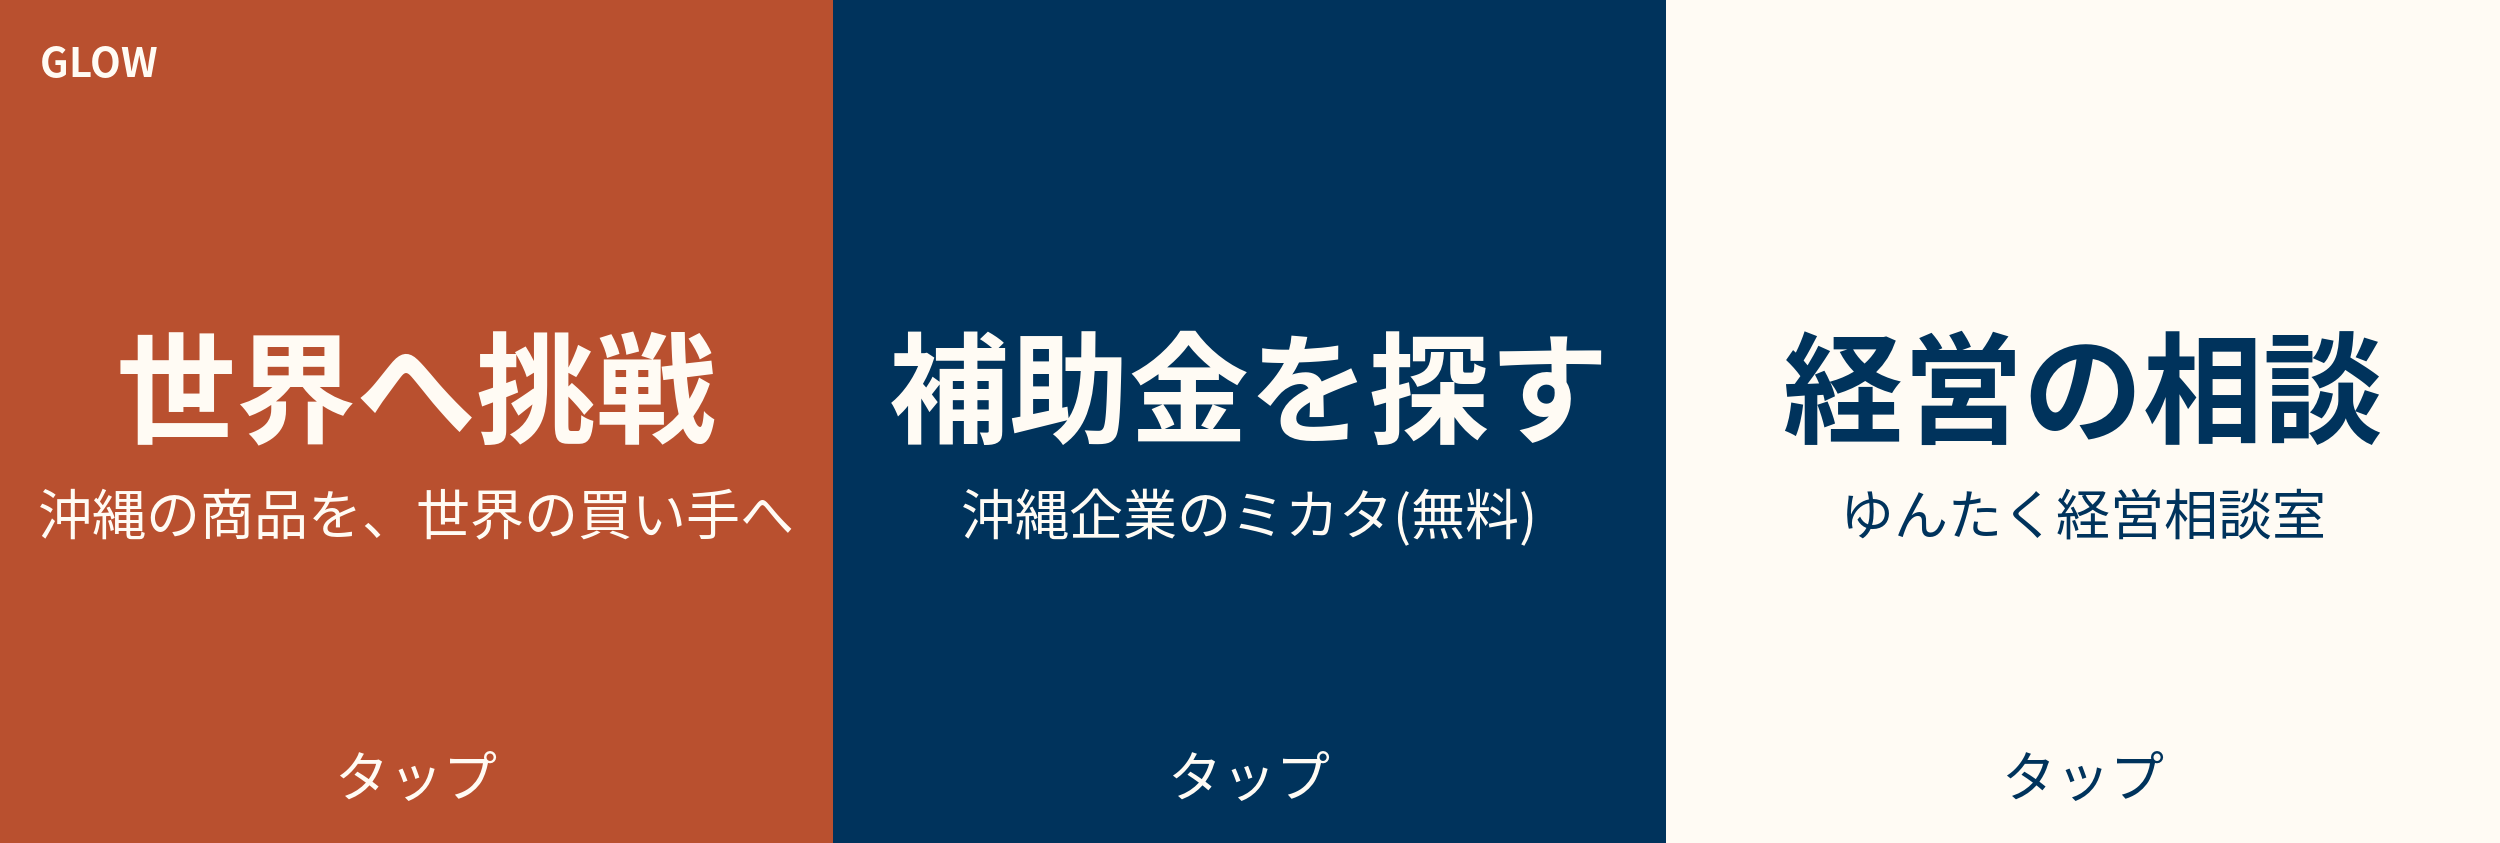
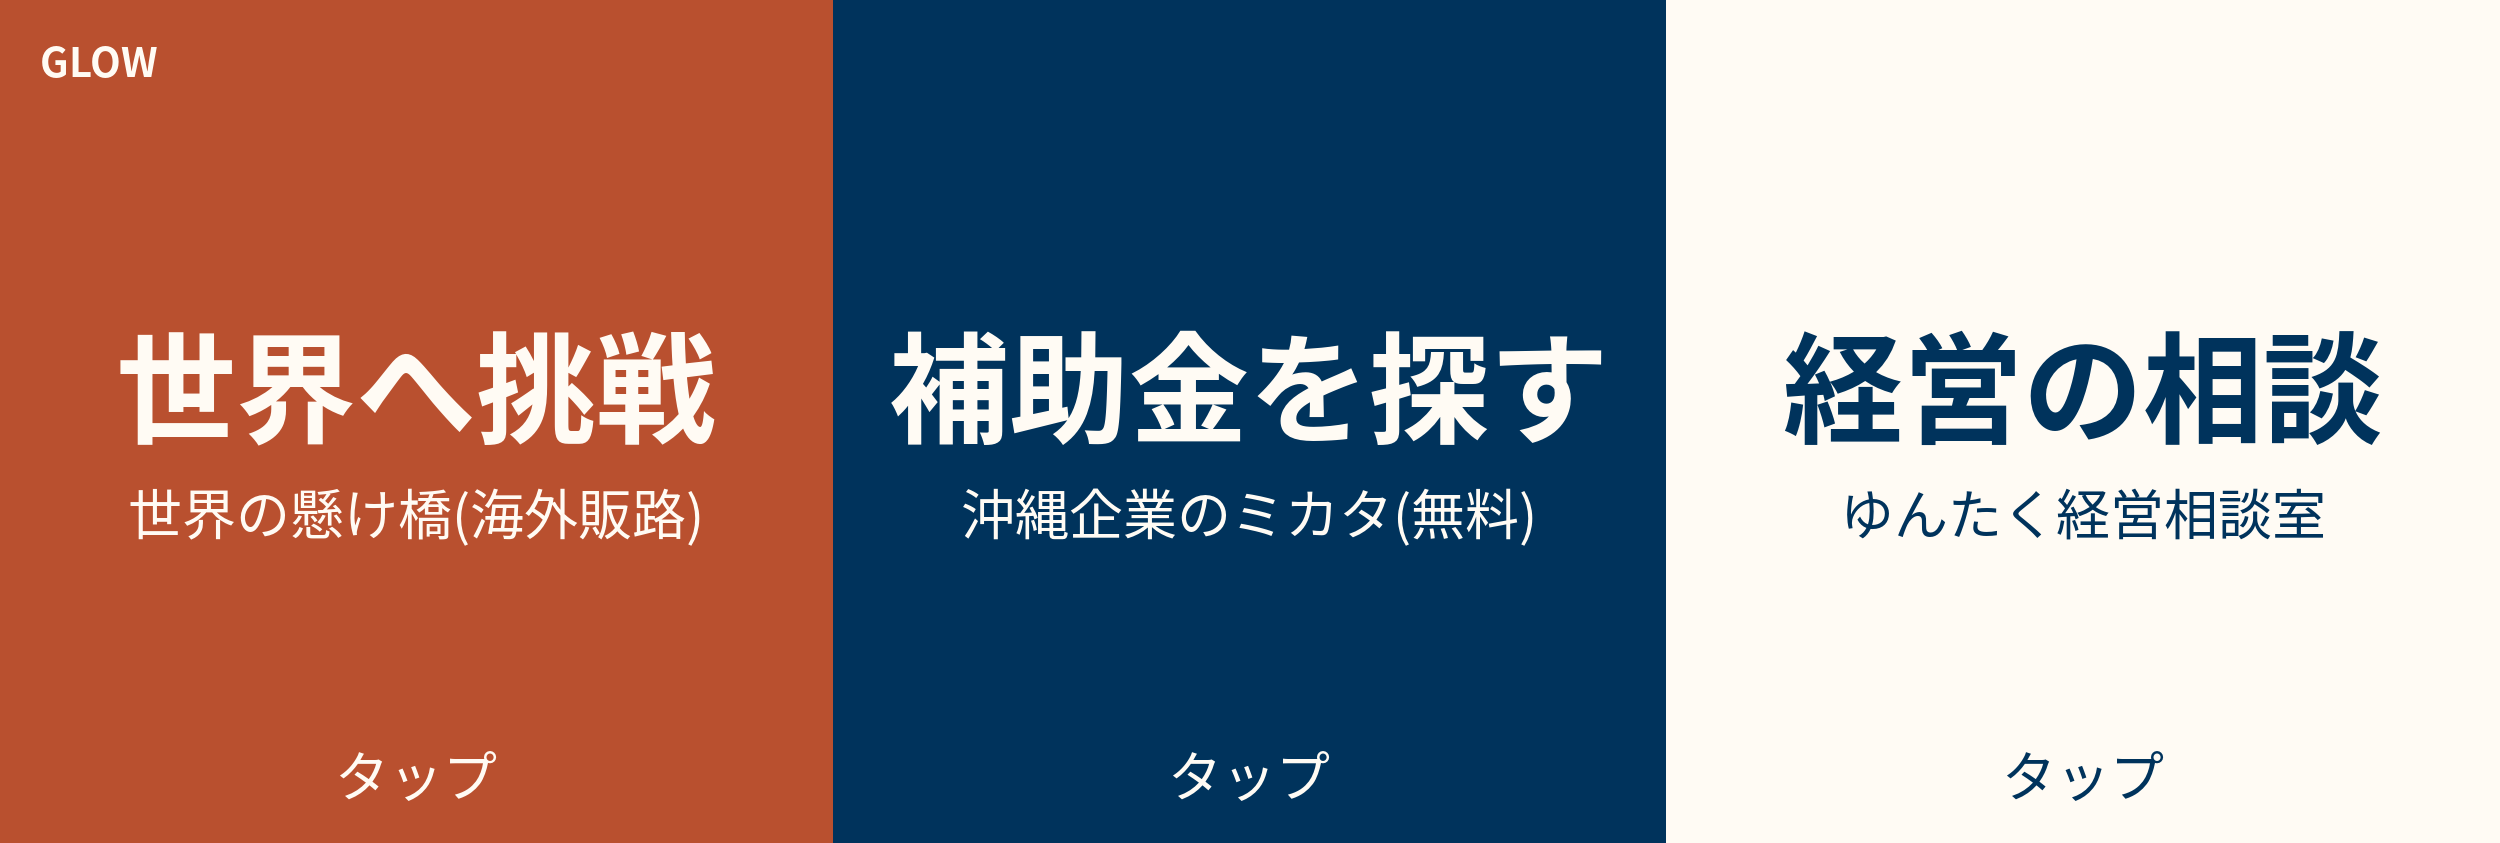
GLOWの3本目の柱「世界の懸け橋」を憲法・全体マップ・LINEメニューに反映
- CLAUDE.md: ❻の説明にサービス名と現在の置き場所(glow-world / glow-okinawa.jp)を追記、事業の軸の表に軸❺を追加
- 全体マップ: ❻の行を更新
- LINEメニュー左ボタンの小見出しを「世界の懸け橋(海外販路)」に

Claude-Session: https://claude.ai/code/session_016UFDXVuYFtAtTGYqmXNcP3

Changed region(s): [[0.0, 0.586, 0.312, 0.6477]]

diff --git a/scripts/glow_line_setup.py b/scripts/glow_line_setup.py
@@ -8,7 +8,7 @@ GLOW LINE公式アカウント(@042wvrgo)のリッチメニューを、画像の
 
 --apply には環境変数 GLOW_LINE_CHANNEL_ACCESS_TOKEN(GitHub Secrets)が必要。
 ボタン(左から):
-  世界へ挑戦  … 世界へ推進LP(GLOW_LP_URL があればそちら)
+  世界へ挑戦  … 世界の懸け橋のLP(GLOW_LP_URL があればそちら)
   補助金を探す … 沖縄企業のミカタ
   経営の相談   … ゆんたく経営相談室
 同じ名前(GLOW-)の古いメニューは登録後に消すので、何度流しても1つだけ残る。
@@ -42,7 +42,7 @@ LP_URL = "https://allgroup-inc.github.io/glow-world/"
 MENU_PREFIX = "GLOW-"
 
 BUTTONS = [
-    {"title": "世界へ挑戦", "sub": "沖縄の商品を、世界の買い手へ", "bg": RED, "fg": CREAM},
+    {"title": "世界へ挑戦", "sub": "世界の懸け橋(海外販路)", "bg": RED, "fg": CREAM},
     {"title": "補助金を探す", "sub": "沖縄企業のミカタ(無料)", "bg": NAVY, "fg": CREAM},
     {"title": "経営の相談", "sub": "ゆんたく経営相談室", "bg": CREAM, "fg": NAVY},
 ]

diff --git a/CLAUDE.md b/CLAUDE.md
@@ -21,7 +21,7 @@ CVはLINE登録の1点のみ(締切アラートが登録特典)。
 3. **❸ 事業構成&ゆんたく【GLOW】**: 別チャットセッションで進行中。ゆんたくサイトLP構築・仕組み・全体構想を担当。通称「ゆんたく経営相談室」、手紙アプローチで高齢経営者のM&A可能性を掘り起こす仕組み。
 4. **❹ 沖縄企業のミカタ【GLOW】**: 別チャットセッションで進行中。本リポジトリ(hojo-hq)のメイン事業(助成金・補助金の公開LP+LINE)のうち、LPのコンテンツ・デザイン関係全般を担当(システム実装は❶へ連携)。
 5. **❺ 事業構成【GLOW】(過去の内容)**: ❸の前身。会話がコンテキスト上限に達したため❸「事業構成&ゆんたく」に継続。過去の議事・決定事項の参照用。
-6. **❻ GLOW 世界へ推進【GLOW】(2026-10-04 小柳さん決裁で新設)**: 沖縄の生産者に、Alibaba.com上のGLOWの沖縄ブースへ商品を載せてもらうためのLP(`site/go/plan-a/`)・提案資料・SNS/LINE集客。目標は**相談まで進んだ企業100社/2027-04-04まで**。対外的には**GLOW名義**(「Plan A」は提携先の事業名のため表に出さない)。アリババ提案書は機密のため公開側に置かない。計画・議事・提案書要点は glow-docs-private `docs/GLOW世界へ推進_計画と参照資料_v1_2026-10-04.md` を先に読む。
+6. **❻ GLOW 世界へ推進【GLOW】(2026-10-04 小柳さん決裁で新設)**: 沖縄の生産者に、Alibaba.com上のGLOWの沖縄ブースへ商品を載せてもらうためのLP・提案資料・SNS/LINE集客。**サービス名は「世界の懸け橋」**(2026-10-05 小柳さん決裁。GLOWの3本目の柱。下の軸の表では番号を崩さないため軸❺)。LPは公開リポジトリ **allgroup-inc/glow-world**(独自ドメイン glow-okinawa.jp)、本リポジトリの `site/go/world/` は転送ページのみ。目標は**相談まで進んだ企業100社/2027-04-04まで**。対外的には**GLOW名義**(「Plan A」は提携先の事業名のため表に出さない)。**「懸け橋」をローマ字で書かない**(家計の見直しやさんの統合システム名と同じ綴りになり、repo-scope検査の禁止語にも当たる。英語表記が要るときは「Bridge to the World」)。アリババ提案書は機密のため公開側に置かない。計画・議事・提案書要点は glow-docs-private `docs/GLOW世界へ推進_計画と参照資料_v1_2026-10-04.md` を先に読む。
 
 **体制決定(2026-08-19 小柳さん決裁)**: glow-ma配下のGASコード・スプレッドシート・Apps Scriptデプロイへの変更は、❶(本セッション)に一本化する。❷❸❹がglow-ma側の変更を必要とする場合は、直接コードを触らず、`docs/連携メモ_YYYYMMDD_<件名>.md`で要件を❶へ連携すること(2026-08-19 複数セッションが同一Apps Scriptプロジェクトを同時に編集していたことが判明し決定)。
 
@@ -43,7 +43,8 @@ CVはLINE登録の1点のみ(締切アラートが登録特典)。
 | 軸❶ | 嶺井さんの紹介案件(M&A・不動産) | 専用チャットなし。戦略・市場調査は❷が担当。実運用データ(紹介企業の登録)はすべて❶(本チャット)の企業マスタへ、流入ルート「①紹介」として入力する(スコアリング・ダッシュボード・レター文面出し分けまで既存の仕組みで対応済み。新規実装は不要) |
 | 軸❷ | 沖縄企業のミカタ | ❹沖縄企業のミカタ |
 | 軸❸ | ゆんたく経営相談室(手紙アプローチ) | ❸事業構成&ゆんたく |
-| 軸❹ | 営業管理システム【GLOW】(軸❶❷❸すべての受け皿) | ❶本チャット |
+| 軸❹ | 営業管理システム【GLOW】(軸❶❷❸❺すべての受け皿) | ❶本チャット |
+| 軸❺ | **世界の懸け橋**(沖縄の産品をAlibaba.com経由で世界へ。2026-10-05 小柳さん決裁で「GLOWの3本目の柱」として新設。お客様向けサービスとしてはミカタ・ゆんたくに続く3本目。既存の番号を崩さないため軸❺) | ❻GLOW 世界へ推進 |
 
 ## KGI / KPI
 **第一目標: 沖縄経営者・企業のLINE登録 1,000社(公開から12ヶ月)**

diff --git a/docs/全体マップ.md b/docs/全体マップ.md
@@ -21,7 +21,7 @@
 | ❸ | 事業構成&ゆんたく【GLOW】 | ゆんたくLP・全体構想(❺の後継) | glow-docs-private(LPビルド元も同所) |
 | ❹ | 沖縄企業のミカタ【GLOW】 | 本サイトLPのコンテンツ・デザイン(システム実装は❶へ) | 本リポジトリ `site/` `docs/` |
 | ❺ | 事業構成【GLOW】(過去) | ❸の前身。参照専用 | (新規追記しない) |
-| ❻ | GLOW 世界へ推進【GLOW】(2026-10-04新設) | 沖縄の生産者をAlibaba.com上のGLOWの沖縄ブースへつなぐLP・提案資料・SNS/LINE集客。体制8部門+監査 | LP実装は本リポジトリ `site/go/plan-a/`(公開は除外中)/ 計画・議事・アリババ提案書要点(機密)は glow-docs-private `docs/GLOW世界へ推進_計画と参照資料_v1_2026-10-04.md` |
+| ❻ | GLOW 世界へ推進【GLOW】(2026-10-04新設) | サービス名「**世界の懸け橋**」(2026-10-05決裁・GLOWの3本目の柱/事業の軸では軸❺)。沖縄の生産者をAlibaba.com上のGLOWの沖縄ブースへつなぐLP・提案資料・SNS/LINE集客 | LP: 公開リポジトリ allgroup-inc/glow-world(glow-okinawa.jp)/ 本リポジトリ `site/go/world/` は転送のみ / LINEメニュー: `scripts/glow_line_setup.py` / 計画・議事・提案資料(機密)は glow-docs-private `docs/GLOW世界へ推進_計画と参照資料_v1_2026-10-04.md`・`docs/議事_20261005_世界の懸け橋_GLOW第3の柱.md` |
 
 - **Claude Code上のセッション名との対応(2026-09-21確認)**: ❶=「🔵営業管理システム【GLOW】」/ ❷=「🔵沖縄県M&A市場調査【GLOW】」/
   ❸=Claude Code外のチャット(セッション一覧に無し)/ 山梨版=「🔴『もらいわすれ堂』【フクギ】 山梨」/ 家計側の軸=「🌟家計の見直しやさん総合システム⭐」(kakei-crm)/
